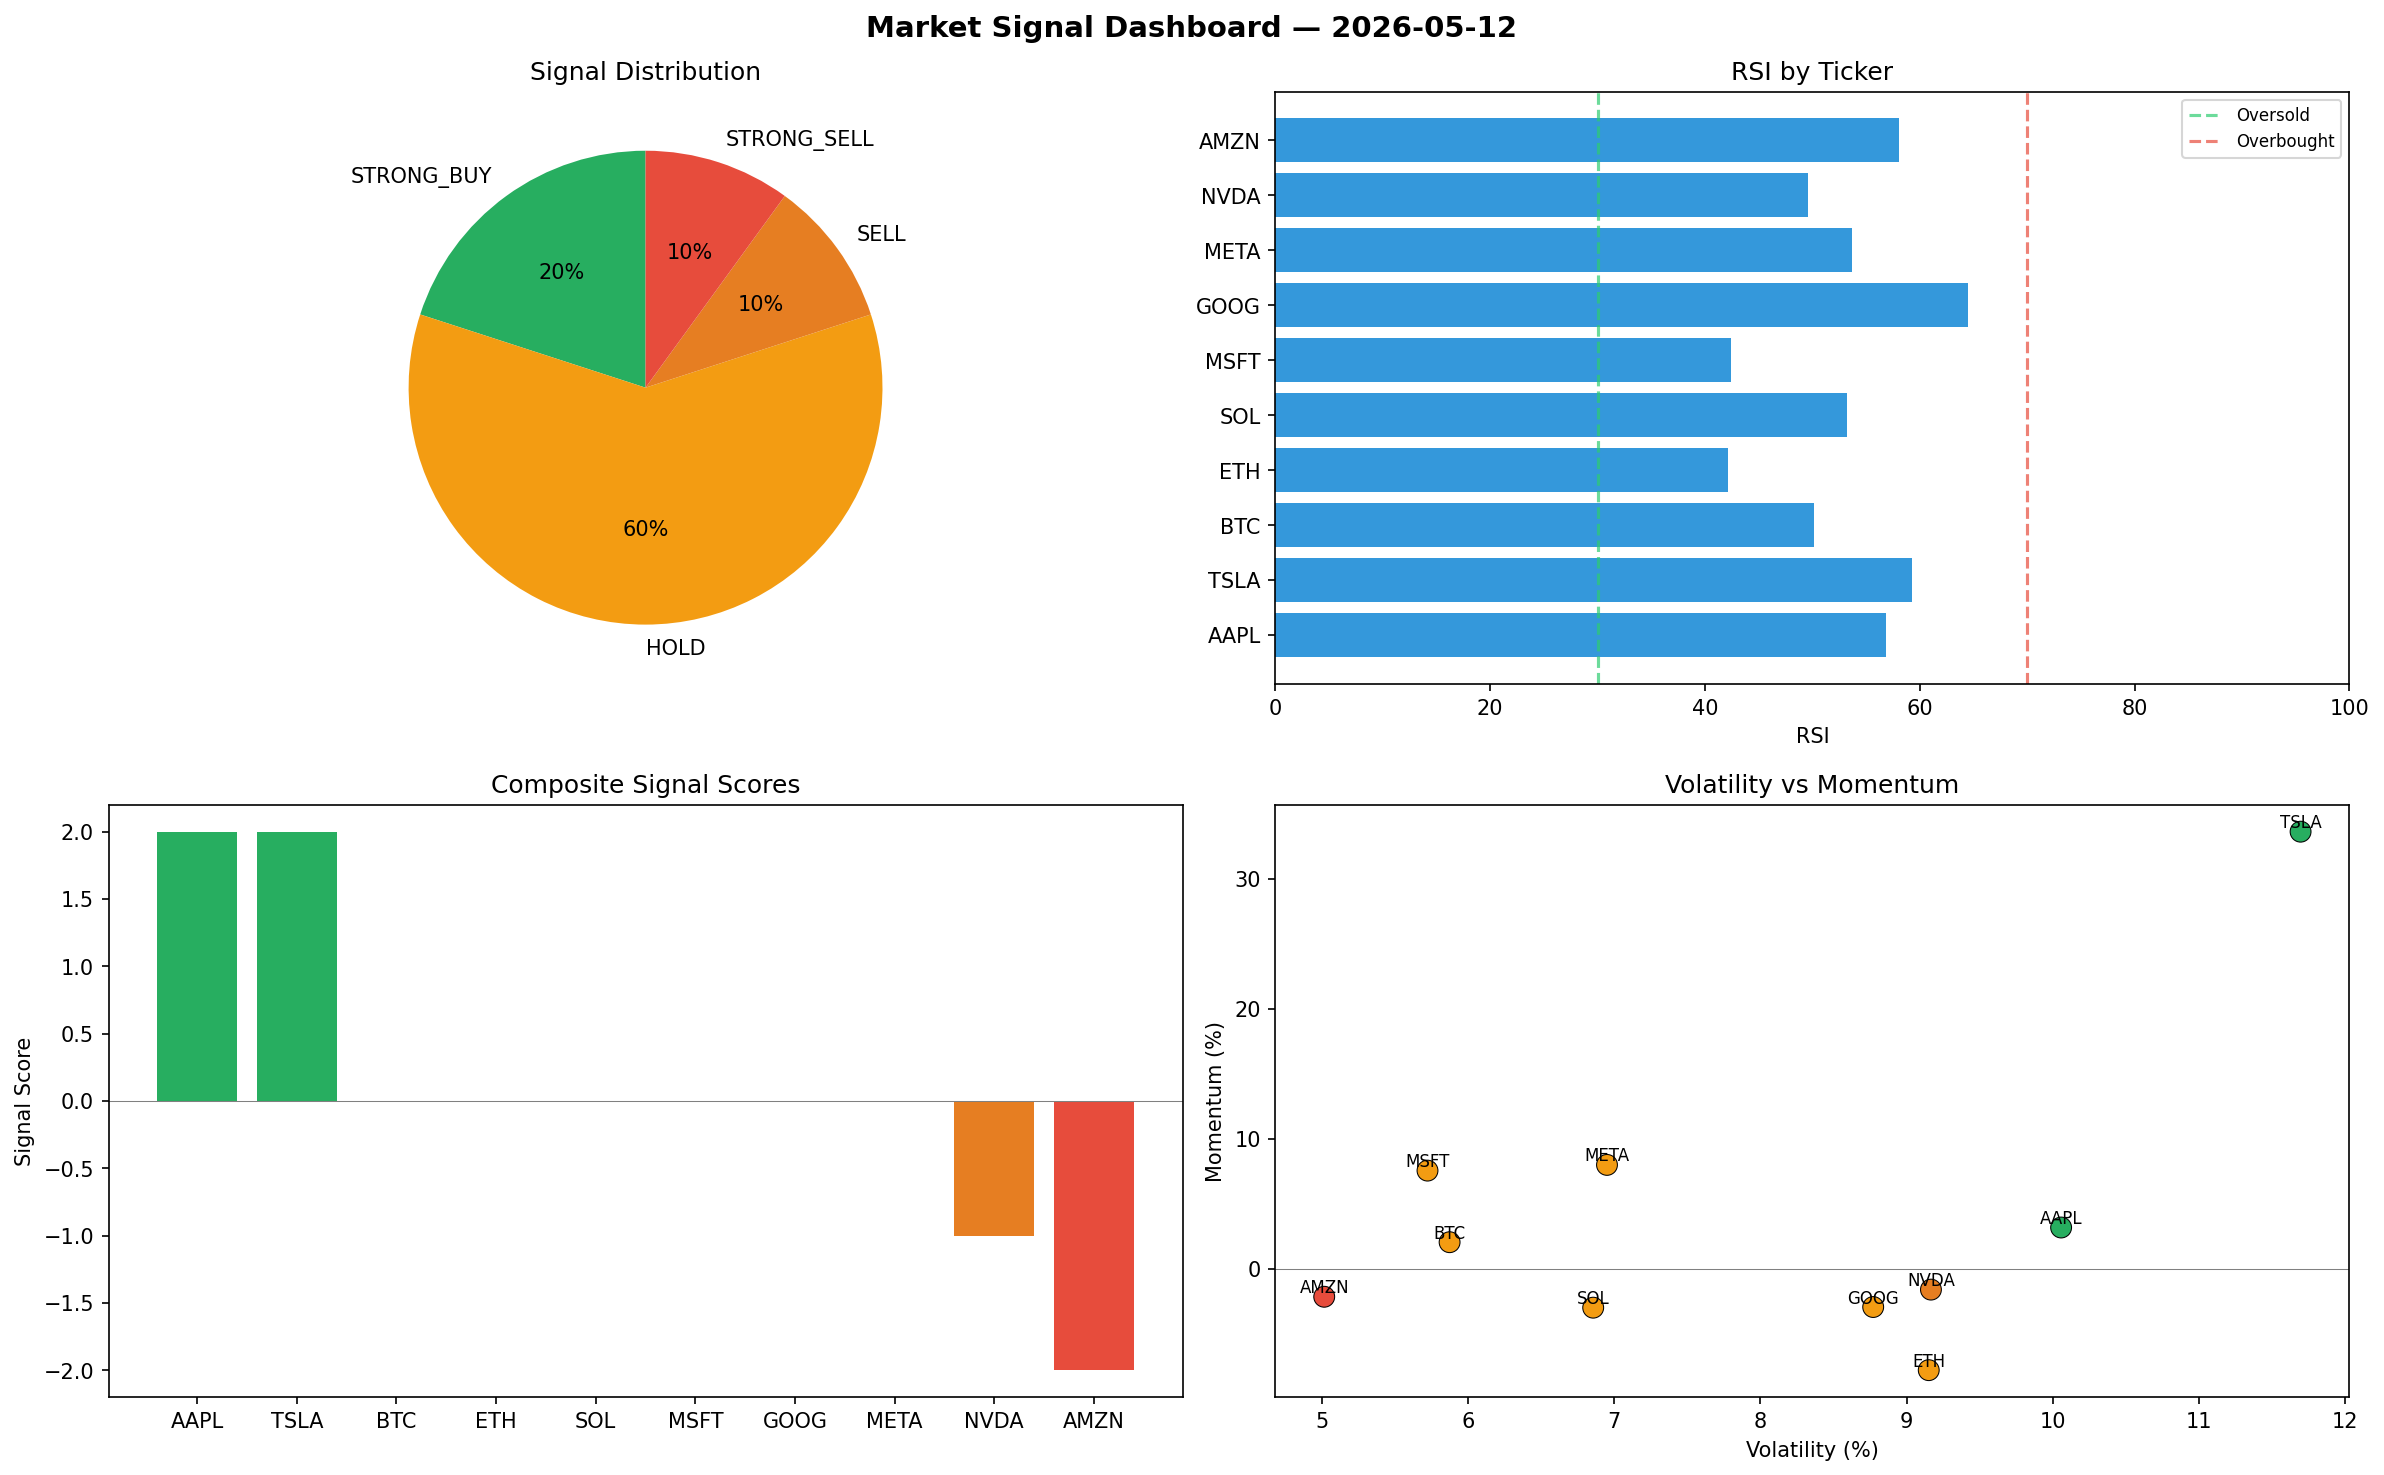
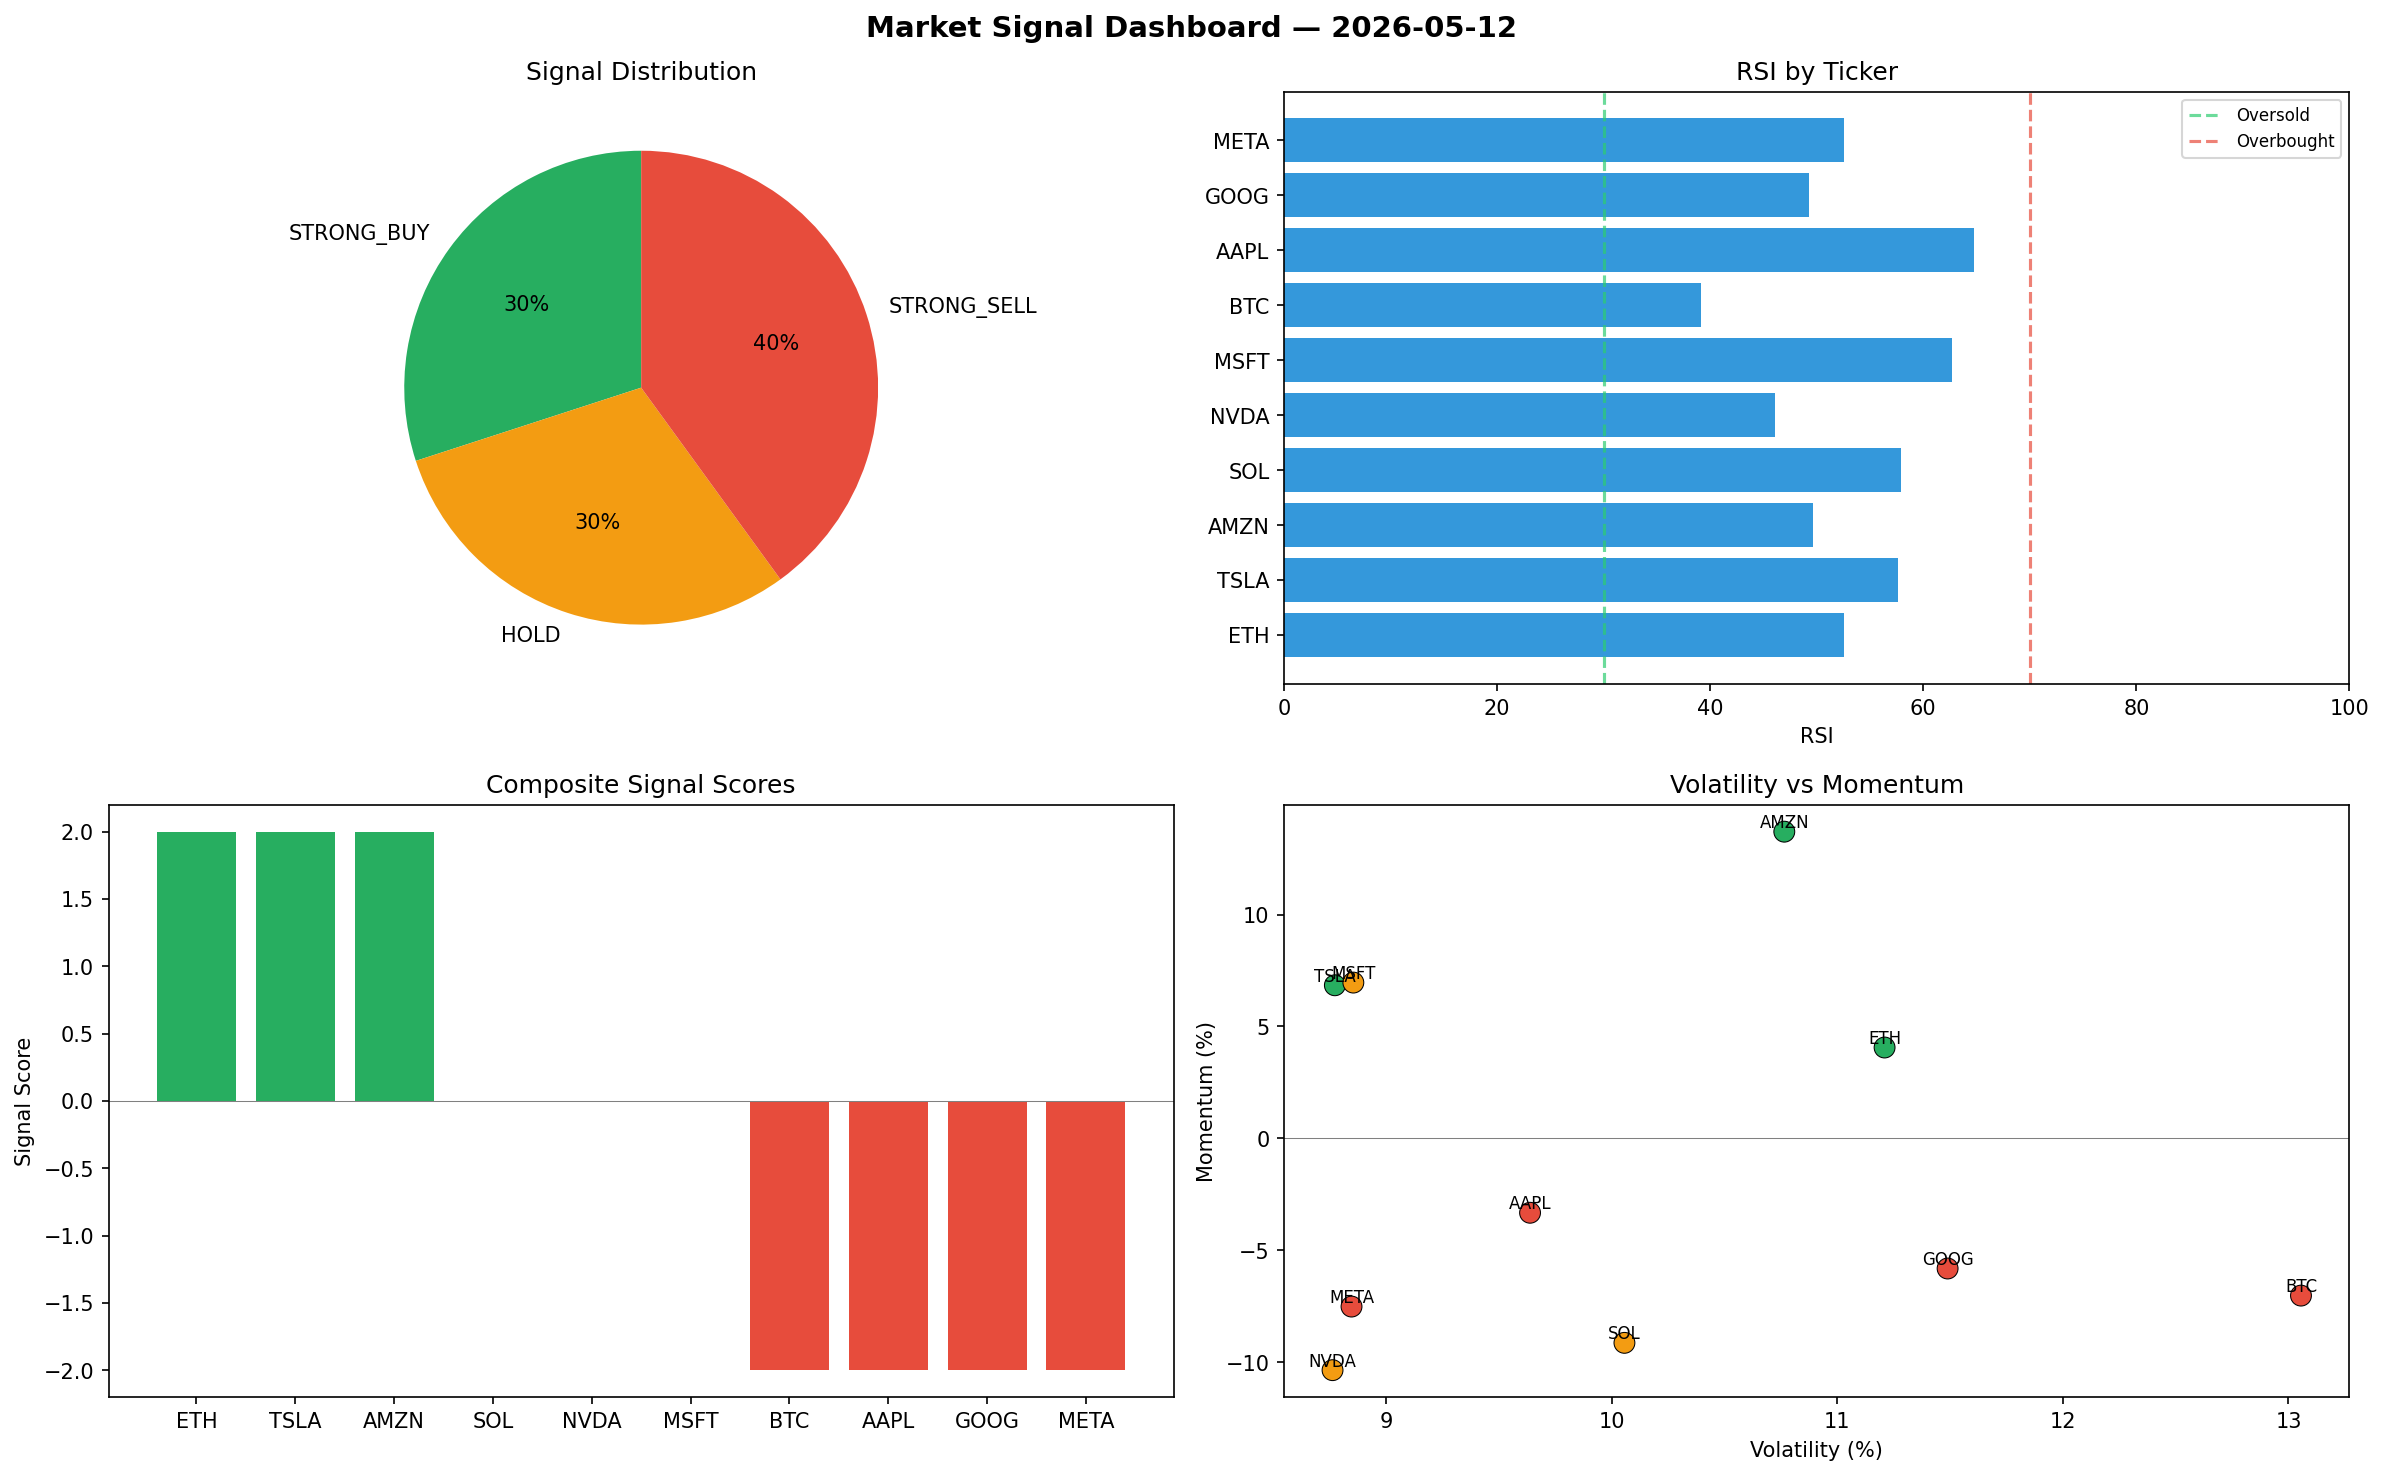
automated-bots: market signals 2026-05-12T16:37

diff --git a/logs/2026-05-12.md b/logs/2026-05-12.md
@@ -1,6 +1,6 @@
 # Market Signal Report — 2026-05-12
 
-**Run ID:** `ba8c0a2332` | **Buy:** 2 | **Sell:** 2 | **Hold:** 6
+**Run ID:** `2f90475f2b` | **Buy:** 3 | **Sell:** 4 | **Hold:** 3
 
 ![Dashboard](2026-05-12_dashboard.png)
 
@@ -8,28 +8,28 @@
 
 | Ticker | Price | Signal | Score | RSI | Momentum | Confidence |
 |--------|-------|--------|-------|-----|----------|------------|
-| AAPL | $4631.08 | **STRONG_BUY** | 2 | 56.88 | 0.0316 | 0.5 |
-| TSLA | $2799.03 | **STRONG_BUY** | 2 | 59.28 | 0.3363 | 0.5 |
-| BTC | $4741.98 | **HOLD** | 0 | 50.19 | 0.0203 | 0.0 |
-| ETH | $256.71 | **HOLD** | 0 | 42.12 | -0.0782 | 0.0 |
-| SOL | $1823.31 | **HOLD** | 0 | 53.22 | -0.0301 | 0.0 |
-| MSFT | $41.49 | **HOLD** | 0 | 42.43 | 0.0754 | 0.0 |
-| GOOG | $989.0 | **HOLD** | 0 | 64.49 | -0.0296 | 0.0 |
-| META | $443.15 | **HOLD** | 0 | 53.71 | 0.0798 | 0.0 |
-| NVDA | $2528.8 | **SELL** | -1 | 49.56 | -0.0162 | 0.25 |
-| AMZN | $686.24 | **STRONG_SELL** | -2 | 58.02 | -0.0217 | 0.5 |
+| ETH | $2747.78 | **STRONG_BUY** | 2 | 52.59 | 0.0406 | 0.5 |
+| TSLA | $4476.27 | **STRONG_BUY** | 2 | 57.59 | 0.0684 | 0.5 |
+| AMZN | $4886.32 | **STRONG_BUY** | 2 | 49.61 | 0.137 | 0.5 |
+| SOL | $3960.77 | **HOLD** | 0 | 57.91 | -0.0913 | 0.0 |
+| NVDA | $1582.58 | **HOLD** | 0 | 46.1 | -0.1035 | 0.0 |
+| MSFT | $2946.08 | **HOLD** | 0 | 62.66 | 0.0696 | 0.0 |
+| BTC | $2335.01 | **STRONG_SELL** | -2 | 39.18 | -0.0702 | 0.5 |
+| AAPL | $3359.22 | **STRONG_SELL** | -2 | 64.78 | -0.0332 | 0.5 |
+| GOOG | $2954.74 | **STRONG_SELL** | -2 | 49.24 | -0.0581 | 0.5 |
+| META | $2723.27 | **STRONG_SELL** | -2 | 52.58 | -0.0751 | 0.5 |
 
 ## Delta vs Yesterday
 
 | Ticker | Today | Yesterday | Price Change | Signal Changed |
 |--------|-------|-----------|-------------|----------------|
-| AAPL | STRONG_BUY | STRONG_SELL | 📈 860.03% | ⚠ YES |
-| TSLA | STRONG_BUY | STRONG_BUY | 📈 157.15% | — |
-| BTC | HOLD | BUY | 📈 43.58% | ⚠ YES |
-| ETH | HOLD | STRONG_BUY | 📉 -51.35% | ⚠ YES |
-| SOL | HOLD | STRONG_SELL | 📉 -18.17% | ⚠ YES |
-| MSFT | HOLD | STRONG_SELL | 📉 -98.61% | ⚠ YES |
-| GOOG | HOLD | STRONG_BUY | 📉 -78.27% | ⚠ YES |
-| META | HOLD | SELL | 📉 -88.73% | ⚠ YES |
-| NVDA | SELL | STRONG_BUY | 📉 -37.42% | ⚠ YES |
-| AMZN | STRONG_SELL | STRONG_SELL | 📉 -75.2% | — |
+| ETH | STRONG_BUY | STRONG_BUY | 📈 420.74% | — |
+| TSLA | STRONG_BUY | STRONG_BUY | 📈 311.24% | — |
+| AMZN | STRONG_BUY | STRONG_SELL | 📈 76.58% | ⚠ YES |
+| SOL | HOLD | STRONG_SELL | 📈 77.76% | ⚠ YES |
+| NVDA | HOLD | STRONG_BUY | 📉 -60.84% | ⚠ YES |
+| MSFT | HOLD | STRONG_SELL | 📉 -1.62% | ⚠ YES |
+| BTC | STRONG_SELL | BUY | 📉 -29.3% | ⚠ YES |
+| AAPL | STRONG_SELL | STRONG_SELL | 📈 596.37% | — |
+| GOOG | STRONG_SELL | STRONG_BUY | 📉 -35.08% | ⚠ YES |
+| META | STRONG_SELL | SELL | 📉 -30.76% | ⚠ YES |
